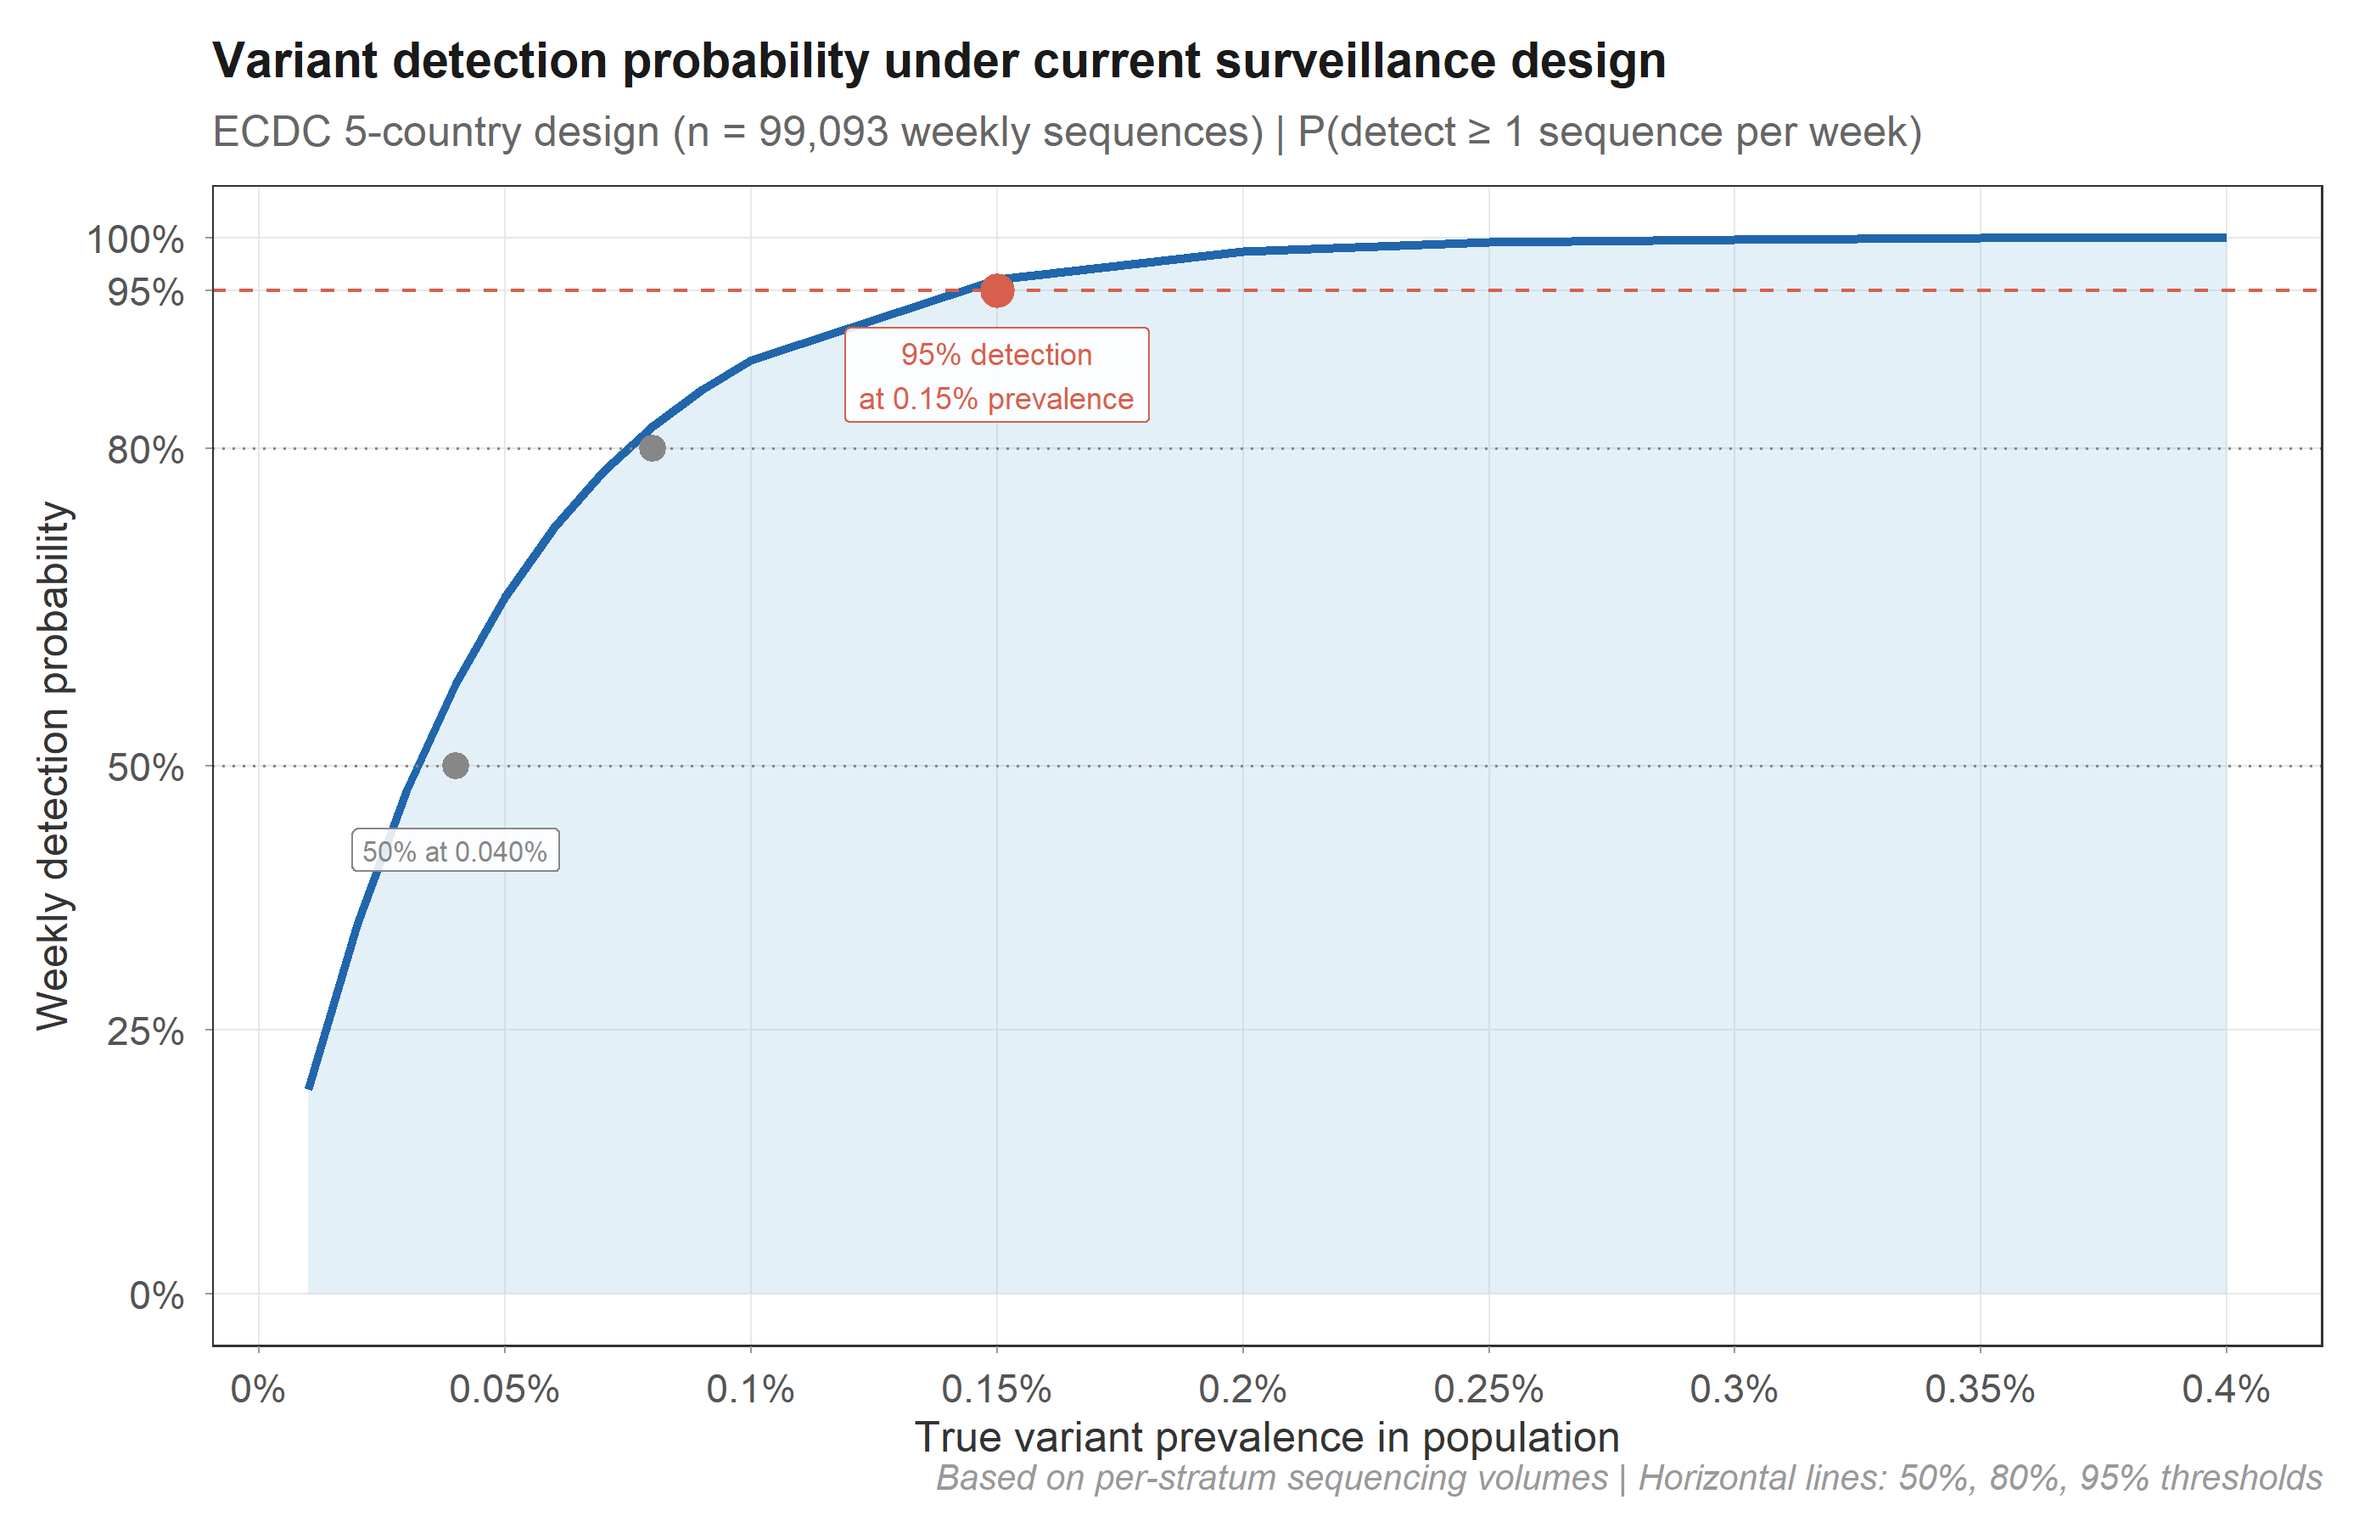
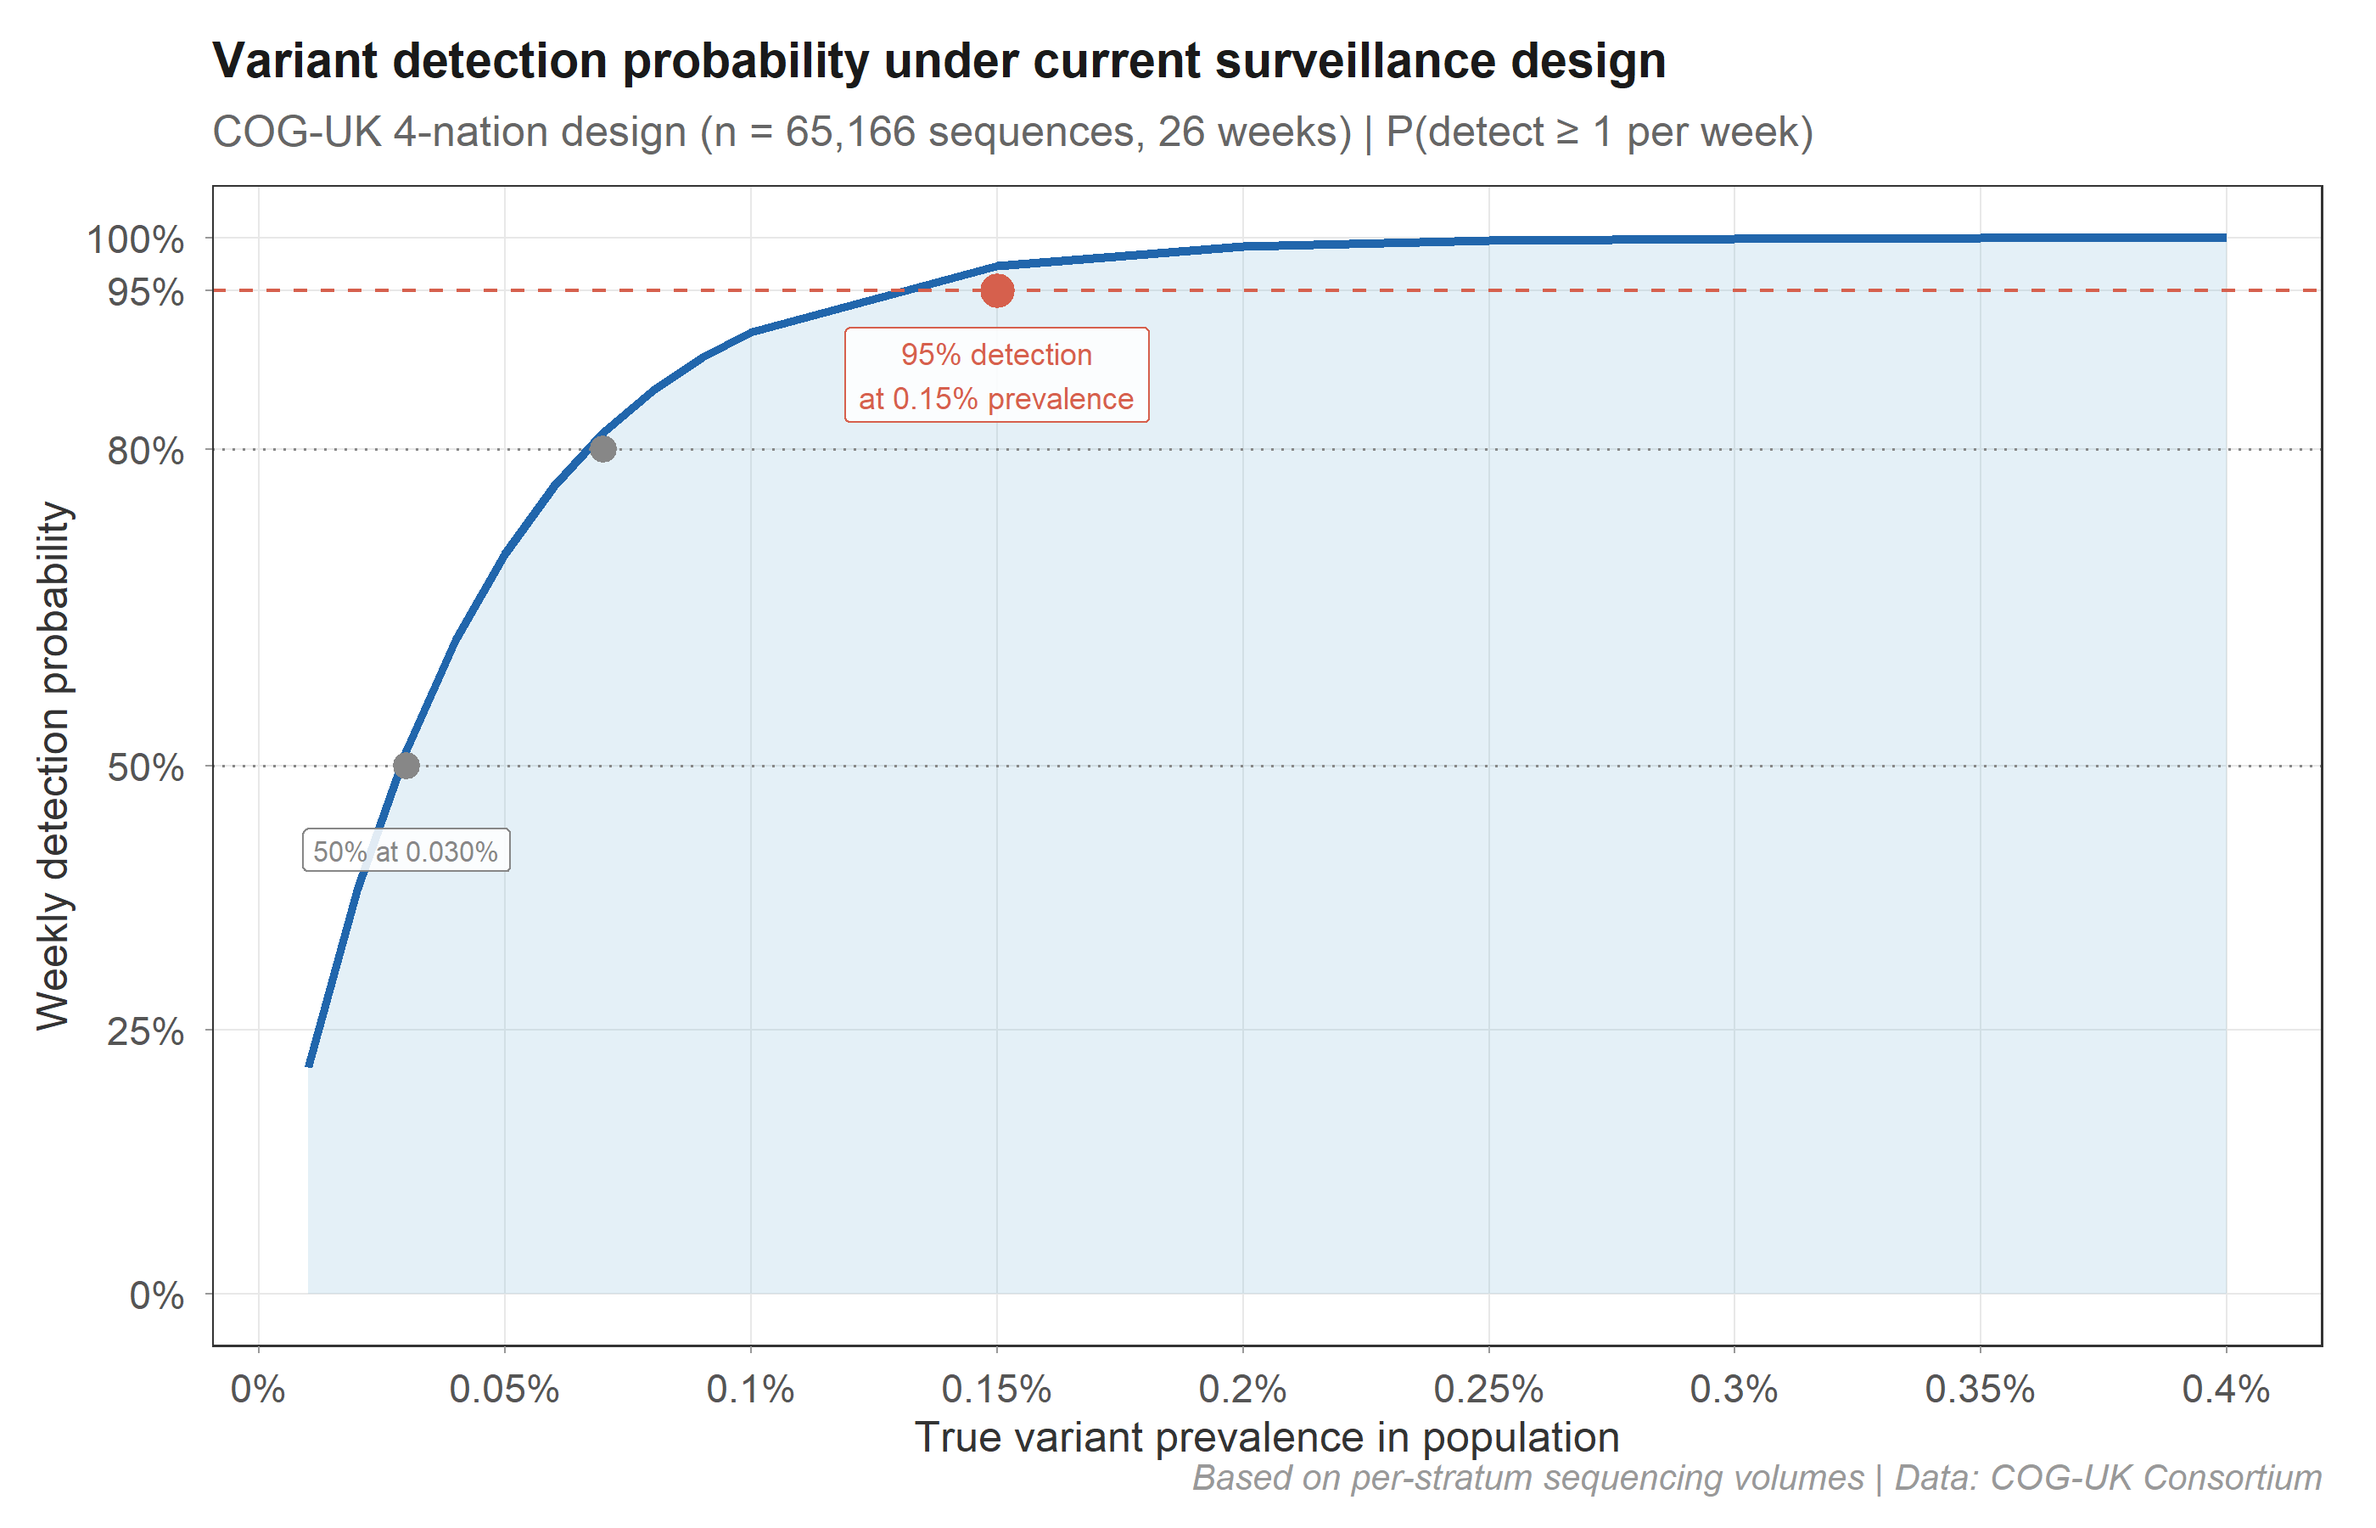
FIX: fig7 was using ECDC data, now uses COG-UK consistently
All 5 real-data figures (1,2,3,5,7) now use COG-UK data.
Detection thresholds: 50% at 0.03%, 80% at 0.07%, 95% at 0.15%.
Subtitle corrected to 'COG-UK 4-nation design (n=65,166)'.

diff --git a/README.md b/README.md
@@ -83,7 +83,7 @@ Figures 1–3, 5, 7 use **COG-UK individual-level sequence metadata** (4 UK nati
 <img src="man/figures/fig7_detection.png" width="85%" />
 </p>
 
-> **Practical use:** `surv_detection_probability()` computes the probability of detecting ≥1 sequence of a variant at a given prevalence. With current COG-UK sequencing volumes (65,166 sequences over 26 weeks), 95% weekly detection requires ~0.15% prevalence.
+> **Practical use:** `surv_detection_probability()` computes the probability of detecting ≥1 sequence of a variant at a given prevalence. With COG-UK sequencing volumes (n = 65,166 over 26 weeks), 50% weekly detection at 0.03%, 80% at 0.07%, 95% at 0.15% prevalence.
 
 ---
 
